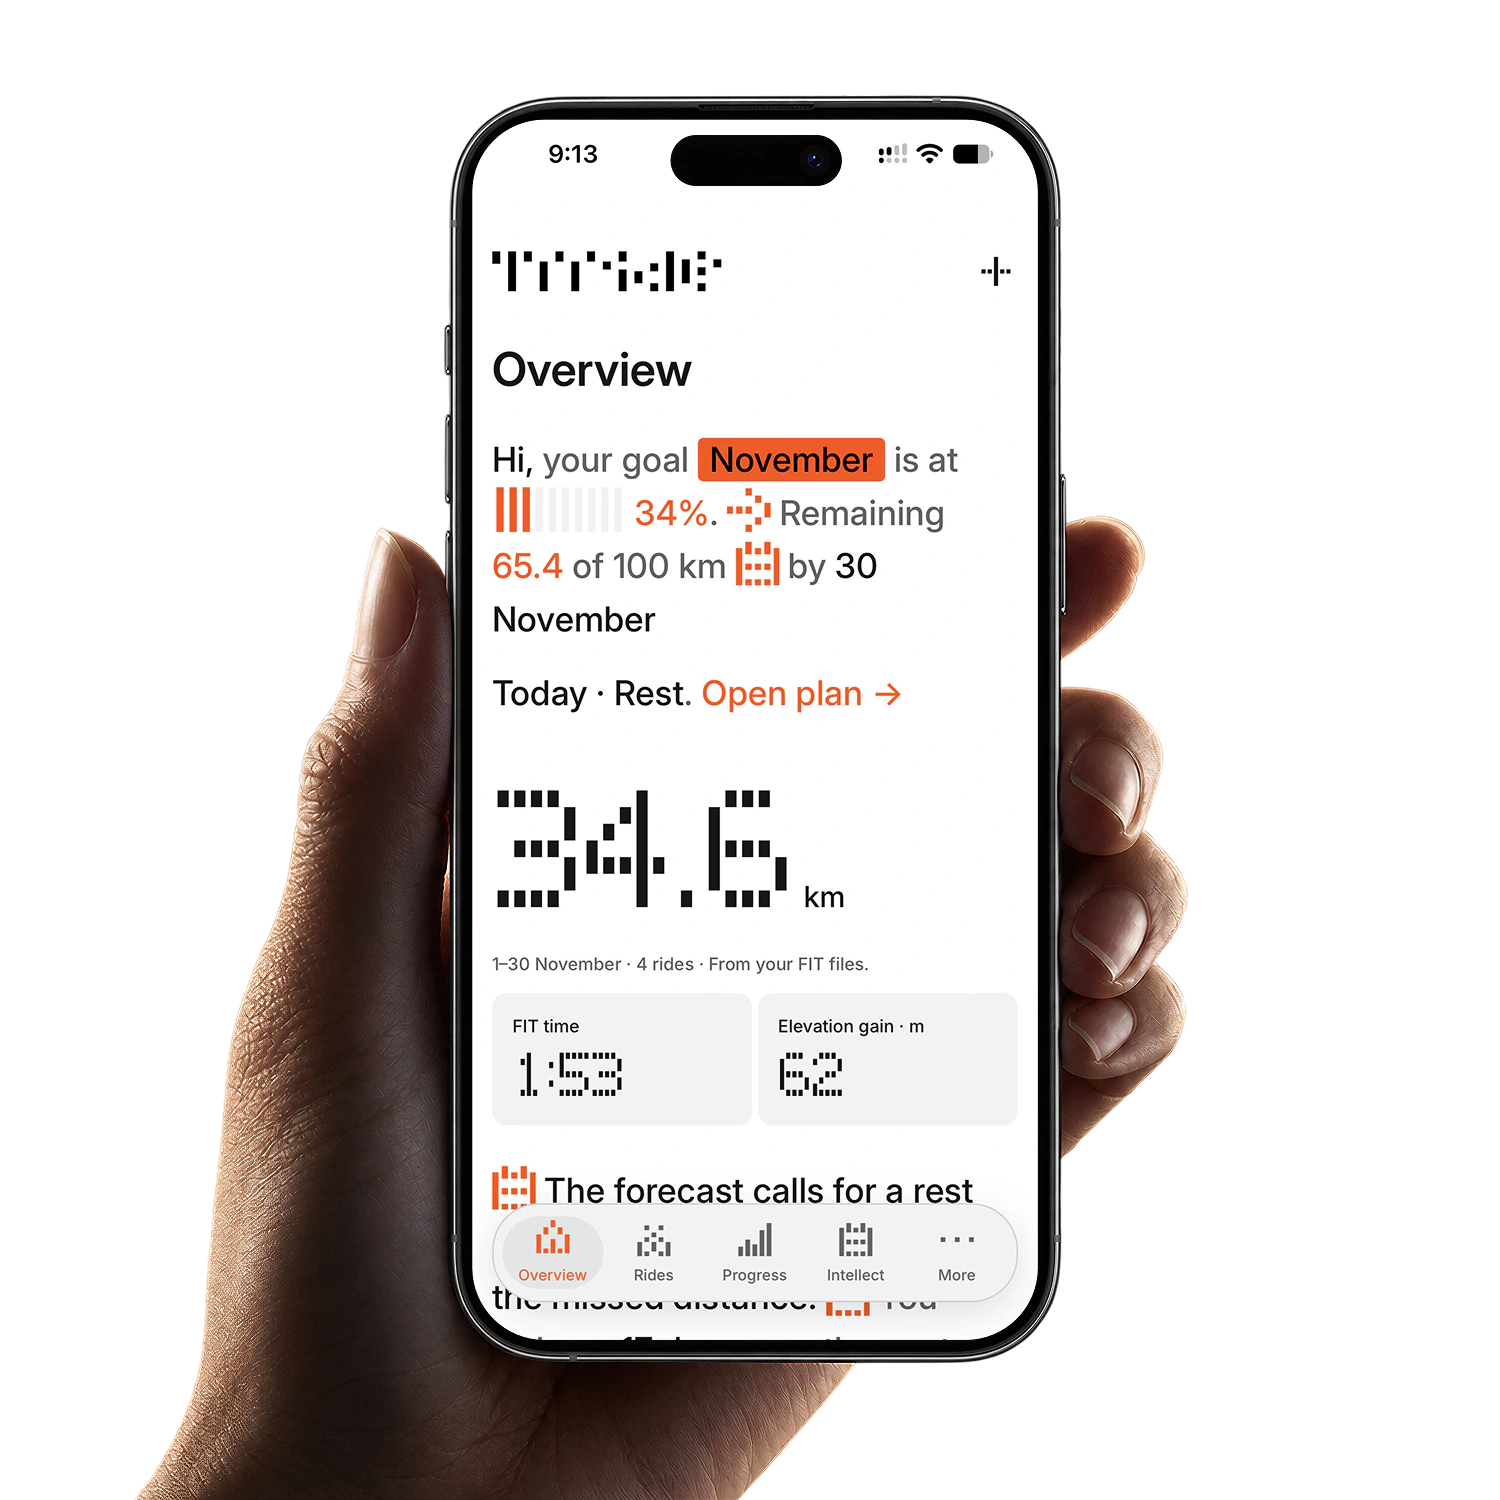
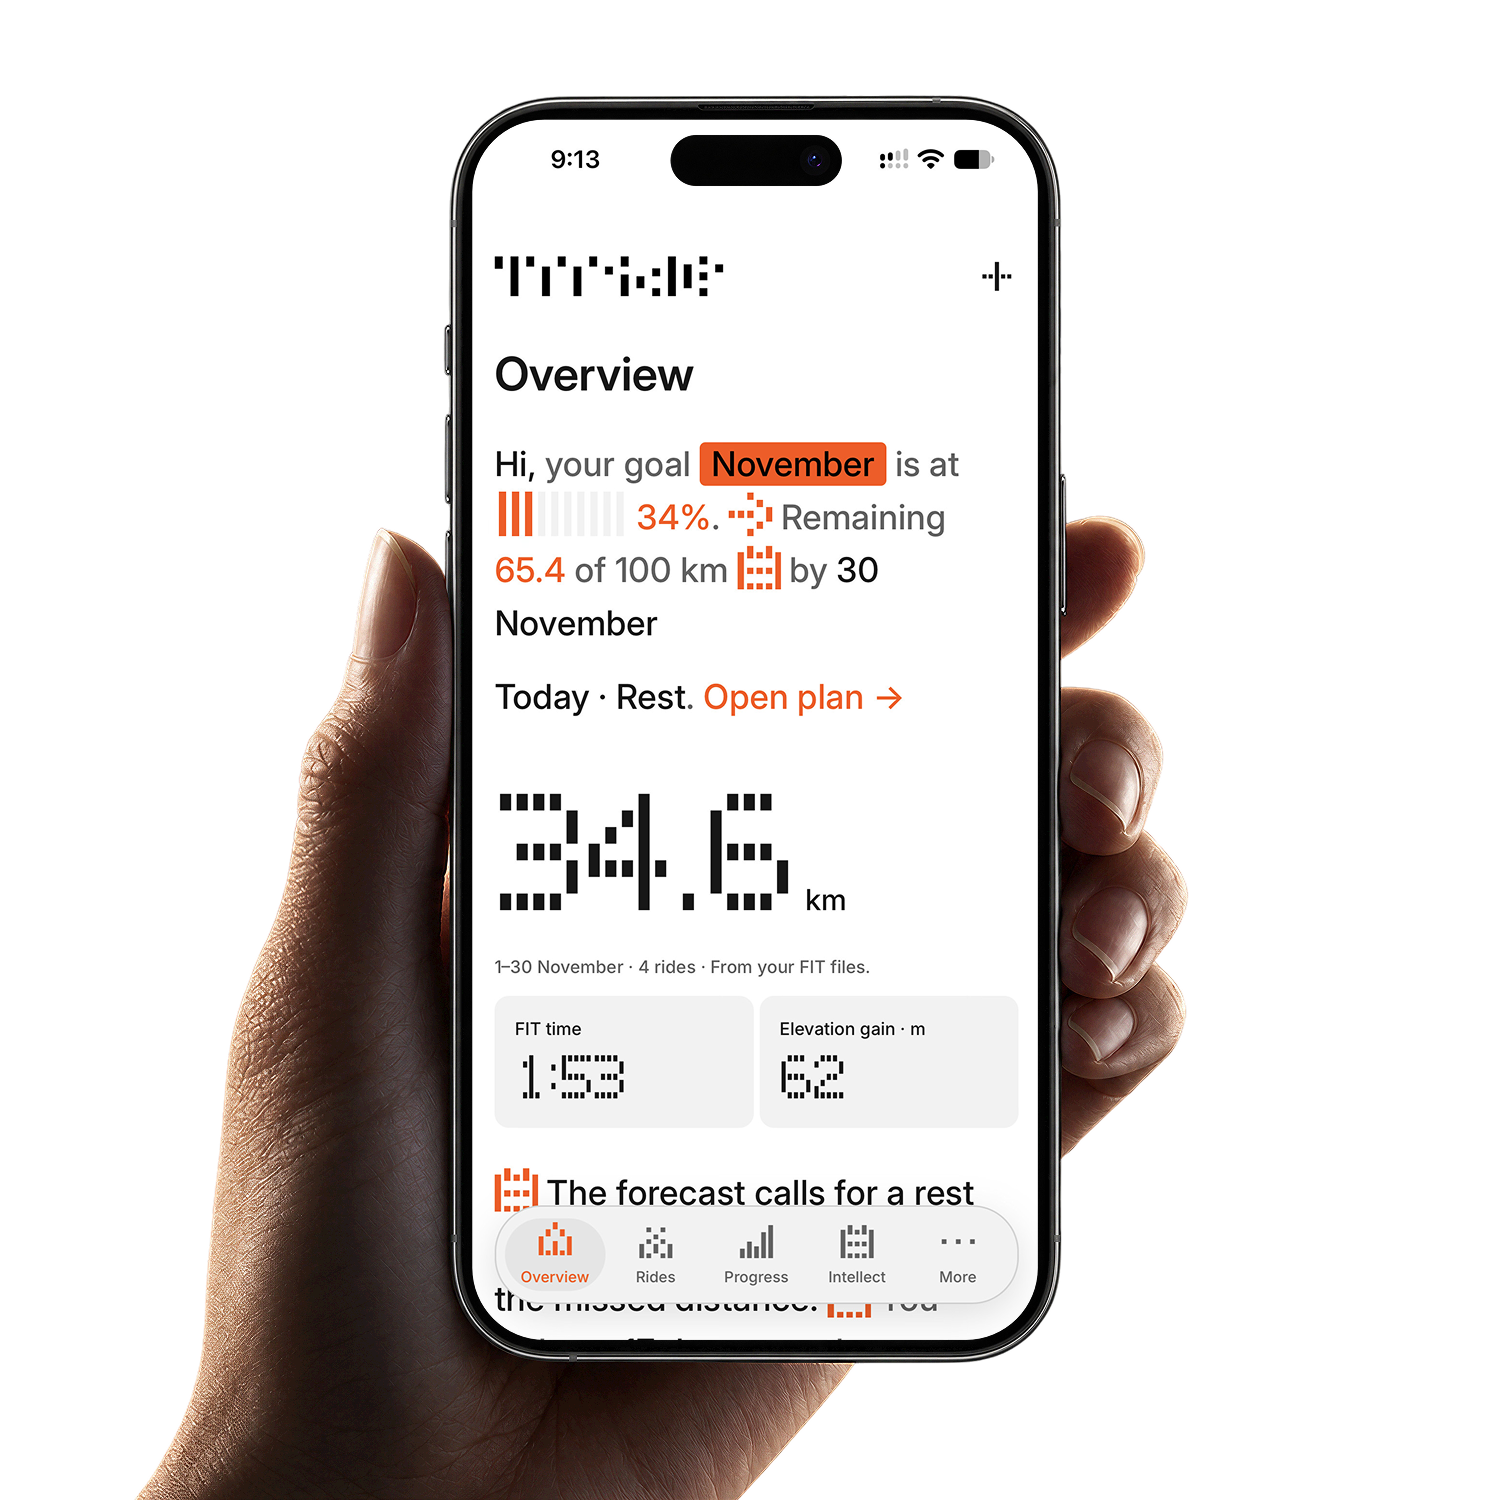
Release 1.89: preserve phone display detail in the landing photo

diff --git a/src/release-notes.js b/src/release-notes.js
@@ -1,8 +1,8 @@
 export const releaseNotes={
- displayVersion:'1.88',
+ displayVersion:'1.89',
  date:'2026-11-05',
  language:'en',
  changes:[
-  'The landing page shows and Ride in its light theme with a smaller WebP photo.'
+  'The landing photo preserves the original detail and sharp text on the phone display.'
  ]
 };
